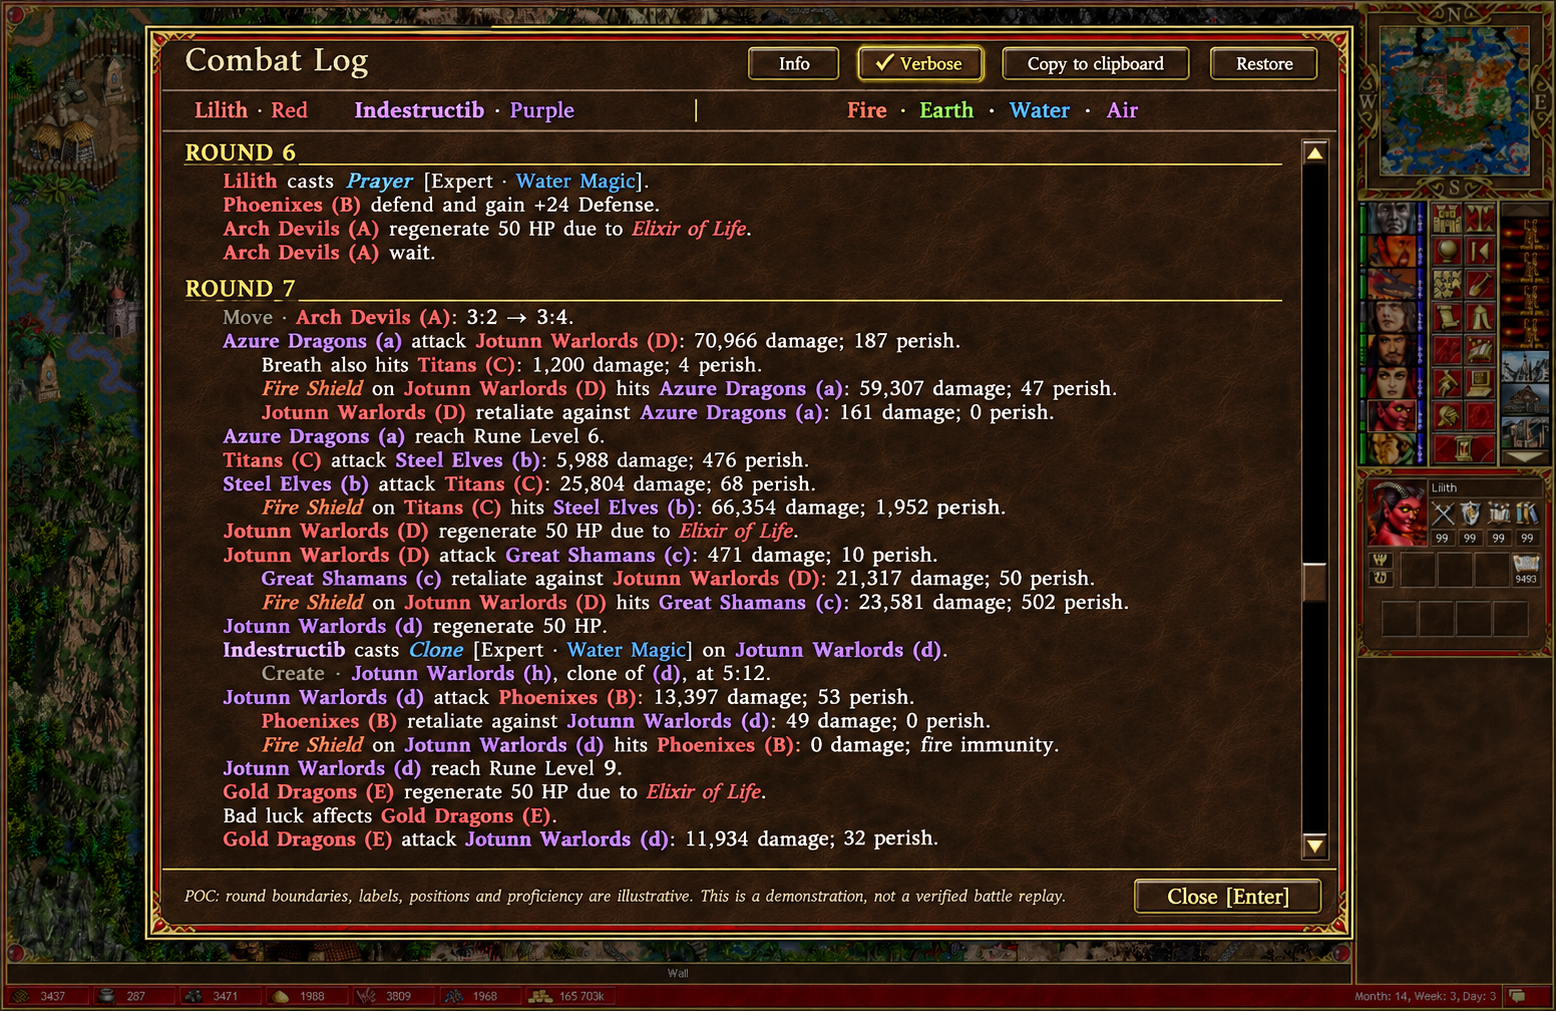
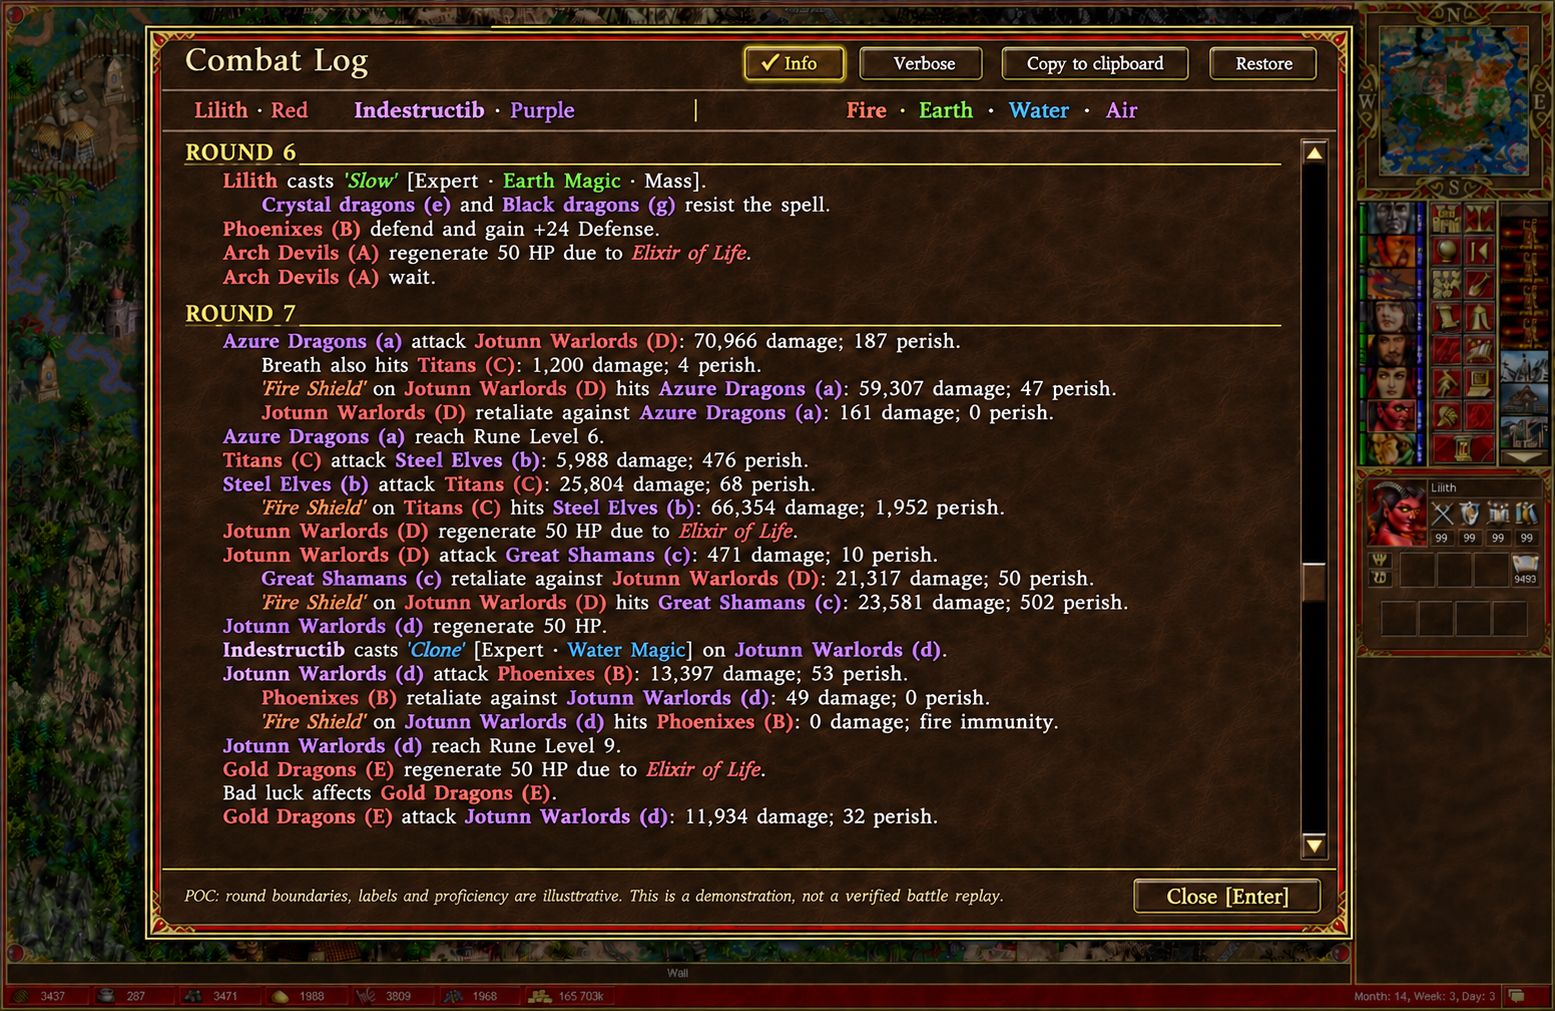
docs: refine combat log Info mockup

diff --git a/assets/hip-0030-combat-log-poc-prompt.md b/assets/hip-0030-combat-log-poc-prompt.md
@@ -1,6 +1,10 @@
 # Combat-log proof-of-concept prompt
 
-Generated with the built-in image-generation tool from the screenshot supplied on 2026-11-07. The transcript preserves the screenshot's primary damage figures; ownership assignments, round boundaries, labels, positions, proficiency, and supplementary events are illustrative. This is a visual design proposal, not a reconstruction of the battle.
+Generated with the built-in image-generation tool from the screenshot supplied on 2026-11-07 and revised on 2026-11-08. The current image shows **Info**, with expert mass `'Slow'`, an indented resistance outcome, quoted spell names, and no movement or stack-creation detail. The transcript preserves the screenshot's primary damage figures; ownership assignments, round boundaries, labels, proficiency, and supplementary events are illustrative. This is a visual design proposal, not a reconstruction of the battle.
+
+## Initial generation · 2026-11-07
+
+This first prompt produced the earlier **Verbose** mockup. The revision below edits that image as committed in `74a09ff`.
 
 ```text
 Use case: precise-object-edit / ui-mockup.
@@ -59,4 +63,33 @@ ROUND 7
 The reaction line with zero fire damage demonstrates explicit immunity reporting. Do not imply that ordinary dragon breath is a fire spell or that general spell immunity blocks reflected Fire Shield damage. Distinguish two Jotunn Warlord stacks (D) and (d) consistently.
 
 Finish as a convincing native in-game screenshot, not a website. The combined log demonstrates expanded layout, round grouping, identity labels, owner colors, school-colored italic spells and proficiency, player-colored bold hero names, artifact attribution, damage-source/target clarity, explicit secondary and immunity outcomes, movement/creation events, Info/Verbose, copying, Enter dismissal, and thousands separators. Do not add unrelated gameplay panels or reveal enemy equipment.
+```
+
+## Revision · 2026-11-08
+
+```text
+Edit the supplied combat-log proof-of-concept image. This image is the edit target, not merely a style reference. Preserve the exact existing screenshot composition, ornate game frame, brown texture, UI layout, typography, title, colors, round headings, legend, copy/restore/close controls, event order, and every damage/casualty figure. Make only the following changes and the small vertical reflow they require. Do not redesign or enlarge the modal.
+
+1. In ROUND 6 replace the first event with exactly:
+"Lilith casts 'Slow' [Expert · Earth Magic · Mass]."
+Lilith remains bold red. The spell text 'Slow', including its surrounding straight single quote marks, is italic and EARTH GREEN, matching the green Earth legend. The Earth Magic label should also use green, matching the existing school-label treatment. Expert and Mass are ivory.
+Directly below this cast, indent a reactive outcome line one level deeper than the cast:
+"Crystal dragons (e) and Black dragons (g) resist the spell."
+Render "Crystal dragons (e)" and "Black dragons (g)" in the same purple used for all defending stacks; leave "and" and "resist the spell." ivory. Keep lowercase labels (e) and (g) exact. This line belongs under the Slow event, not under the round heading as a peer event.
+Remove Prayer completely from the image.
+
+2. In every log event put ALL SPELL NAMES in straight single quotes while keeping their existing italic and magic-school colors. Replace every "Fire Shield" with "'Fire Shield'" (italic fire-red) and "Clone" with "'Clone'" (italic water-blue). Slow above is green, Clone blue, Fire Shield fire-red. Do NOT quote artifact names: Elixir of Life remains italic owner-red without added quotation marks. Do not quote school names, creature names, ability names or the spell-school legend.
+
+3. Select "Info" at the top instead of "Verbose". Move the gold checkmark and active gold highlight to the Info button. Verbose must have no checkmark and the same inactive appearance as the old Info button. Keep BOTH buttons and their labels.
+
+4. The Info view must omit verbose movement and creation detail. REMOVE these two complete rows without leaving gaps:
+"Move · Arch Devils (A): 3:2 → 3:4."
+"Create · Jotunn Warlords (h), clone of (d), at 5:12."
+Do not display tile coordinates or movement/creation detail elsewhere. Keep the normal Clone cast event, damage events, secondary-breath damage, resistances, immunity, waits, defense, regeneration, rune levels, and all other existing rows. Keep their values and ownership colors exactly. Reflow upward just enough to close the two deleted rows and accommodate the added resistance line. Preserve the clear blank separator between ROUND 6 and ROUND 7.
+
+5. Update only the small footer's illustrative note to:
+"POC: round boundaries, labels and proficiency are illustrative. This is a demonstration, not a verified battle replay."
+Keep it readable and preserve "Close [Enter]".
+
+Check text carefully: 'Slow' is Expert Earth and Mass, 'Clone' Expert Water, all 4 existing 'Fire Shield' rows quoted, Crystal dragons (e) and Black dragons (g) purple, Info selected, Verbose unselected, NO Move row, NO Create row, NO tile coordinates. No spelling mistakes, no altered numbers, no added events or columns. Produce a crisp faithful image edit, not a new interpretation.
 ```

diff --git a/hip-0030.md b/hip-0030.md
@@ -8,9 +8,9 @@ Allow the **combat log** to expand across the full screen, even beyond the norma
 
 ![Combined combat-log proof of concept with round groups, colored names, detailed events, and log controls](assets/hip-0030-combat-log-poc.png)
 
-This shared mockup combines the expanded layout with [stack labels](hip-0029.md), [player-colored stack names](hip-0031.md), [round grouping](hip-0032.md), [hero and artifact styling](hip-0033.md), [spell proficiency and school colors](hip-0034.md), [closing with `Enter`](hip-0035.md), [damage attribution](hip-0036.md), [regeneration sources](hip-0037.md), [hex coordinates](hip-0038.md), [additional battle events](hip-0039.md), [**Info / Verbose** controls](hip-0040.md), [thousands separators](hip-0044.md), and [clipboard copying](hip-0075.md).
+This shared mockup combines the expanded layout with [stack labels](hip-0029.md), [player-colored stack names](hip-0031.md), [round grouping](hip-0032.md), [hero and artifact styling](hip-0033.md), [spell proficiency and school colors](hip-0034.md), [closing with `Enter`](hip-0035.md), [damage attribution](hip-0036.md), [regeneration sources](hip-0037.md), [**Info / Verbose** controls](hip-0040.md), [thousands separators](hip-0044.md), and [clipboard copying](hip-0075.md).
 
-The screenshot's primary damage figures are retained. Round boundaries, stack ownership and labels, spell proficiency, positions, and supplementary events are illustrative; the image demonstrates the proposed presentation rather than reconstructing the battle. `D` and `d` deliberately distinguish opposing `Jotunn Warlords` stacks. **Verbose** is selected to show movement and stack-creation examples.
+The screenshot's primary damage figures are retained. Round boundaries, stack ownership and labels, spell proficiency, and supplementary events are illustrative; the image demonstrates the proposed presentation rather than reconstructing the battle. `D` and `d` deliberately distinguish opposing `Jotunn Warlords` stacks. **Info** is selected, with movement and stack-creation detail hidden. The expert mass `'Slow'` example demonstrates an indented outcome for stacks unaffected by the spell.
 
 [Original screenshot](assets/hip-0030-combat-log-reference.png) · [Image-generation prompt](assets/hip-0030-combat-log-poc-prompt.md)
 

diff --git a/hip-0034.md b/hip-0034.md
@@ -4,6 +4,8 @@
 
 For every `spell` cast during combat, show its casting proficiency—`Basic`, `Advanced`, or `Expert`. Render the `spell` name in *italics* and color it by its `school of magic`, matching the labels in the **Spell Book**: `Fire Magic` red, `Earth Magic` green, `Water Magic` blue, and `Air Magic` purple.
 
+Enclose each styled spell name in single quotation marks, such as `'Slow'` or `'Clone'`, including when the name appears in a spell-effect entry.
+
 See the [combined combat-log proof of concept](hip-0030.md#proof-of-concept) for the proposed spell styling, proficiency labels, and school colors alongside the other log improvements.
 
 > **Author:** Alexander Cyon · **Date:** 2026-10-10 · **Status:** **DRAFT** · **Estimate:** **Simple**
